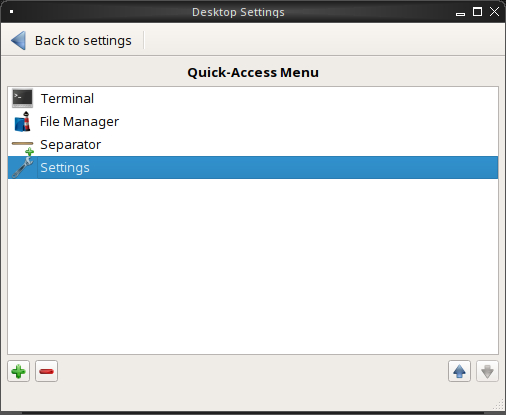
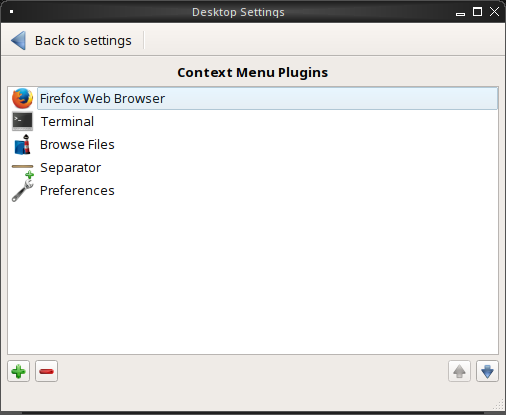
Update screenshot and section titles: luminaplugins.rst
- Updated screenshot luminamenupluginmenu1 to reflect a naming change.
- Renamed section titles to unify naming with the rest of the handbook.
- Reorganized sections for alphabetization.

Changed region(s): [[0.0, 0.2024, 1.0, 0.4916], [0.3557, 0.1446, 0.6522, 0.2024], [0.8893, 0.8675, 0.9783, 0.9253]]

diff --git a/1.0luminadocumentation/luminaplugins.rst b/1.0luminadocumentation/luminaplugins.rst
@@ -7,8 +7,186 @@ Lumina Plugins
 **************
 
 Lumina offers a wide variety of plugins which allow the user to 
-customize their desktop experience. Plugins are divided between desktop,
-menu, and panel plugins.
+customize their desktop experience. Plugins are divided between context 
+menu, desktop, and floating panel plugins.
+
+.. _Context Menu Plugins:
+
+Context Menu Plugins
+====================
+
+Menu plugins are the options which appear when the user right-clicks on 
+the desktop screen in Lumina. You can customize these options by 
+clicking on the Start Menu, then 
+:menuselection:`Preferences --> Configure Desktop --> Interface Configuration --> Context Menu and Plugins`.
+
+.. _luminamenupluginmenu1:
+
+.. figure:: images/luminamenupluginmenu1.png
+
+:numref:`Figure %s: Lumina Menu Plugins <luminamenupluginmenu1>`
+
+Add or remove plugins by clicking the green "plus" or red "minus" 
+buttons in the bottom left corner of the window. The arrow buttons in 
+the bottom right allow the user to move plugins up or down in the 
+Quick-Access Menu field, which will alter their display order when the 
+desktop is right-clicked. Click the Save button to immediately implement 
+any changes to the menu.
+
+Two elements the right-click menu will always display are the name of 
+the current virtual desktop at the top of the menu and the shutdown 
+options on the bottom, as pictured in :numref:`Figure %s: Default Menu <luminamenuplugin1>`.
+
+.. _luminamenuplugin1:
+
+.. figure:: images/luminamenuplugin1.png
+
+The user can customize what appears between these two elements of the 
+menu however they wish.
+
+.. _Menu Applications:
+
+Applications
+------------
+
+info.ID = "applications"
+
+.. _luminamenuplugin2:
+
+.. figure:: images/luminamenuplugin2.png
+
+:numref:`Figure %s: Applications <luminamenuplugin2>`
+
+This plugin adds an application menu which can be navigated to open any 
+installed application. The Control Panel and Application Management 
+options will always be shown at the top, while the categories of 
+applications are shown underneath.
+
+.. _Custom App:
+
+Custom App
+----------
+
+info.ID = "app"
+
+.. _luminamenuplugin3:
+
+.. figure:: images/luminamenuplugin3.png
+
+:numref:`Figure %s: Custom Application <luminamenuplugin3>`
+
+Adds a specific quickstart icon for a single application to the 
+right-click menu. Pictured is the icon for the "About" application, 
+which displays current system information.
+
+.. _File Manager:
+
+File Manager
+------------
+
+info.ID = "filemanager"
+
+.. _luminamenuplugin4:
+
+.. figure:: images/luminamenuplugin4.png
+
+:numref:`Figure %s: File Manager <luminamenuplugin4>`
+
+Opens the Insight File Manager (Default) to allow the user to browse the
+system files. 
+
+.. _JSON Menu:
+
+JSON Menu
+---------
+
+info.ID = "JSON Menu"
+
+The JSON Menu plugin give a more advanced user the flexibility to create
+their own entries into the right-click menu. Selecting the JSON Menu 
+plugin immediately brings up the 
+:numref:`Figure %s: JSON Menu Configuration Window <luminamenuplugin5>`.
+
+.. _luminamenuplugin5:
+
+.. figure:: images/luminamenuplugin5.png
+
+This window has three fields: Visible Name, Executable, and Icon. The 
+Visible Name field will define the name of the right-click menu entry. 
+Executable is the path to the custom script that is to be run for the 
+entry. The Icon field is optional, but is used to assign a specific 
+icon to the custom script.
+
+.. _luminamenuplugin6:
+
+.. figure:: images/luminamenuplugin6.png
+
+:numref:`Figure %s: JSON Menu Example <luminamenuplugin6>`
+
+After completing the configuration window, the resultant display shows 
+the custom script in action. The Visible Name appears under "Workspace 2",
+while the executable script has generated the menu of files and folders.
+
+.. _Separator:
+
+Separator
+---------
+
+info.ID = "line"
+
+:numref:`Figure %s: Separator <luminamenuplugin1>`
+
+A Separator is simply a horizontal line which can be used to divide 
+entries in the right-click menu. When added to the menu, use the up and
+down arrows in the plugin selection menu to place the Separator plugin 
+between the plugins you wish to place a line between.
+
+.. _Settings:
+
+Preferences
+-----------
+
+info.ID = "Settings"
+
+.. _luminamenuplugin7:
+
+.. figure:: images/luminamenuplugin7.png
+
+:numref:`Figure %s: Preferences <luminamenuplugin7>`
+
+This plugin adds a shortcut to the right-click menu which points to the 
+desktop settings menu.
+
+.. _Terminal:
+
+Terminal
+--------
+
+info.ID = "terminal"
+
+.. _luminamenuplugin8:
+
+.. figure:: images/luminamenuplugin8.png
+
+:numref:`Figure %s: Terminal <luminamenuplugin8>`
+
+A shortcut to the default system terminal.
+
+.. _Window List:
+
+Window List
+-----------
+
+info.ID = "windowlist"
+
+.. _luminamenuplugin9:
+
+.. figure:: images/luminamenuplugin9.png
+
+:numref:`Figure %s: Window List <luminamenuplugin9>`
+
+This plugin adds an entry to the right-click menu which, when hovered 
+over with the mouse, will list all open application windows.
 
 .. _desktop plugins:
 
@@ -213,188 +391,11 @@ The "Disk I/O" tab of the System Monitor plugin. Displayed are the
 current read and write speeds of the connected hardware, which in this 
 case is a hard drive and cd player. 
 
-.. _menu plugins:
 
-Menu Plugins
-============
+.. _floating panel plugins:
 
-Menu plugins are the options which appear when the user right-clicks on 
-the desktop screen in Lumina. You can customize these options by 
-clicking on the Start Menu, then 
-:menuselection:`Preferences --> Configure Desktop --> Interface Configuration --> Context Menu and Plugins`.
-
-.. _luminamenupluginmenu1:
-
-.. figure:: images/luminamenupluginmenu1.png
-
-:numref:`Figure %s: Lumina Menu Plugins <luminamenupluginmenu1>`
-
-Add or remove plugins by clicking the green "plus" or red "minus" 
-buttons in the bottom left corner of the window. The arrow buttons in 
-the bottom right allow the user to move plugins up or down in the 
-Quick-Access Menu field, which will alter their display order when the 
-desktop is right-clicked. Click the Save button to immediately implement 
-any changes to the menu.
-
-Two elements the right-click menu will always display are the name of 
-the current virtual desktop at the top of the menu and the shutdown 
-options on the bottom, as pictured in :numref:`Figure %s: Default Menu <luminamenuplugin1>`.
-
-.. _luminamenuplugin1:
-
-.. figure:: images/luminamenuplugin1.png
-
-The user can customize what appears between these two elements of the 
-menu however they wish.
-
-.. _Menu Applications:
-
-Applications
-------------
-
-info.ID = "applications"
-
-.. _luminamenuplugin2:
-
-.. figure:: images/luminamenuplugin2.png
-
-:numref:`Figure %s: Applications <luminamenuplugin2>`
-
-This plugin adds an application menu which can be navigated to open any 
-installed application. The Control Panel and Application Management 
-options will always be shown at the top, while the categories of 
-applications are shown underneath.
-
-.. _Custom App:
-
-Custom App
-----------
-
-info.ID = "app"
-
-.. _luminamenuplugin3:
-
-.. figure:: images/luminamenuplugin3.png
-
-:numref:`Figure %s: Custom Application <luminamenuplugin3>`
-
-Adds a specific quickstart icon for a single application to the 
-right-click menu. Pictured is the icon for the "About" application, 
-which displays current system information.
-
-.. _File Manager:
-
-File Manager
-------------
-
-info.ID = "filemanager"
-
-.. _luminamenuplugin4:
-
-.. figure:: images/luminamenuplugin4.png
-
-:numref:`Figure %s: File Manager <luminamenuplugin4>`
-
-Opens the Insight File Manager (Default) to allow the user to browse the
-system files. 
-
-.. _JSON Menu:
-
-JSON Menu
----------
-
-info.ID = "JSON Menu"
-
-The JSON Menu plugin give a more advanced user the flexibility to create
-their own entries into the right-click menu. Selecting the JSON Menu 
-plugin immediately brings up the 
-:numref:`Figure %s: JSON Menu Configuration Window <luminamenuplugin5>`.
-
-.. _luminamenuplugin5:
-
-.. figure:: images/luminamenuplugin5.png
-
-This window has three fields: Visible Name, Executable, and Icon. The 
-Visible Name field will define the name of the right-click menu entry. 
-Executable is the path to the custom script that is to be run for the 
-entry. The Icon field is optional, but is used to assign a specific 
-icon to the custom script.
-
-.. _luminamenuplugin6:
-
-.. figure:: images/luminamenuplugin6.png
-
-:numref:`Figure %s: JSON Menu Example <luminamenuplugin6>`
-
-After completing the configuration window, the resultant display shows 
-the custom script in action. The Visible Name appears under "Workspace 2",
-while the executable script has generated the menu of files and folders.
-
-.. _Separator:
-
-Separator
----------
-
-info.ID = "line"
-
-:numref:`Figure %s: Separator <luminamenuplugin1>`
-
-A Separator is simply a horizontal line which can be used to divide 
-entries in the right-click menu. When added to the menu, use the up and
-down arrows in the plugin selection menu to place the Separator plugin 
-between the plugins you wish to place a line between.
-
-.. _Settings:
-
-Preferences
------------
-
-info.ID = "Settings"
-
-.. _luminamenuplugin7:
-
-.. figure:: images/luminamenuplugin7.png
-
-:numref:`Figure %s: Preferences <luminamenuplugin7>`
-
-This plugin adds a shortcut to the right-click menu which points to the 
-desktop settings menu.
-
-.. _Terminal:
-
-Terminal
---------
-
-info.ID = "terminal"
-
-.. _luminamenuplugin8:
-
-.. figure:: images/luminamenuplugin8.png
-
-:numref:`Figure %s: Terminal <luminamenuplugin8>`
-
-A shortcut to the default system terminal.
-
-.. _Window List:
-
-Window List
------------
-
-info.ID = "windowlist"
-
-.. _luminamenuplugin9:
-
-.. figure:: images/luminamenuplugin9.png
-
-:numref:`Figure %s: Window List <luminamenuplugin9>`
-
-This plugin adds an entry to the right-click menu which, when hovered 
-over with the mouse, will list all open application windows.
-
-.. _panel plugins:
-
-Panel Plugins
-=============
+Floating Panel Plugins
+======================
 
 Panels are a completely customizable option for Lumina users. By default,
 Lumina users will have one panel stretched across the bottom of the 
